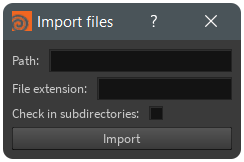
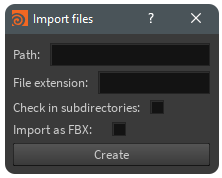
Added FBX support

diff --git a/Import_files.py b/Import_files.py
@@ -1,4 +1,4 @@
-#Get a path and a file type and import all the objects matching in the folder + subdirectories
+#Get a closed path and a file type and import all the objects matching in the folder + subdirectories
 #Vimeo.com/josezalez
 
 import os
@@ -45,18 +45,34 @@ class UI(QDialog):
         subdir_layout.addWidget(self.subdir)
         subdir_layout.setSpacing(10)
  
+         #Create a check for fbx import
+        fbx_layout = QHBoxLayout()
+        self.fbx = QCheckBox("", self)
+        fbx_layout.addWidget(QLabel("Import as FBX:"))
+        fbx_layout.addWidget(self.fbx)
+        fbx_layout.setSpacing(1)
+
         #Set a button to start
-        self.button = QPushButton('Import')
+        self.button = QPushButton('Create')
  
         #Add all the layout together
         main_layout.addLayout(filepath_layout, stretch=1)
         main_layout.addLayout(extension_layout, stretch=1)
         main_layout.addLayout(subdir_layout, stretch=1)
+        main_layout.addLayout(fbx_layout, stretch=1)
         main_layout.addWidget(self.button)
         self.setLayout(main_layout)
         
         #Start the main code
-        self.button.clicked.connect(self.importfiles)
+        self.button.clicked.connect(self.main)
+
+    def main(self):
+
+        if self.fbx.isChecked():
+            self.importfbx()
+
+        else:
+            self.importfiles()
 
 
     def importfiles(self):
@@ -112,6 +128,50 @@ class UI(QDialog):
                             file_node.parm("file").set(obj_path)
                             file_node.moveToGoodPosition()
         
+    def importfbx(self):
+
+        #Store the path and the extension strings previously input by the user
+        path = self.filepath.text()
+        extension = self.extension.text()
+        print "hI"
+        #Checks if the user closed the path, if not it closes it
+        if not path.endswith("\\"):
+                path=path + "\\"
+
+        files = []
+
+        if self.subdir.isChecked():
+                    
+                    #Gets all the subdirectories files and creates a path for each
+            for r, d, f in os.walk(path):
+            
+                for file in f:
+
+                    #Checks for files with the same file type as the one the user input
+                    if(file.endswith(extension)):
+                        files.append(os.path.join(r, file))
+            
+            #Iterate for every file path and creates a file node with the path loaded
+            for file_path in files:
+                
+                fbx_file = hou.hipFile.importFBX(file_path)
+                fbx_file.moveToGoodPosition()
+        else:
+            
+            #The same as before but without iterating inside the subdirectories
+            file_list = os.listdir(path)
+        
+            for obj in file_list:
+        
+                obj_path = path+obj
+                print obj_path
+                    
+                #Checks for files with the same file type as the one the user input
+                if(obj.endswith(extension)):
+
+                    hou.hipFile.importFBX(obj_path)
+                    #fbx_file.moveToGoodPosition()
+
 
 #Starts the script window for the user
 app = QApplication.instance()
